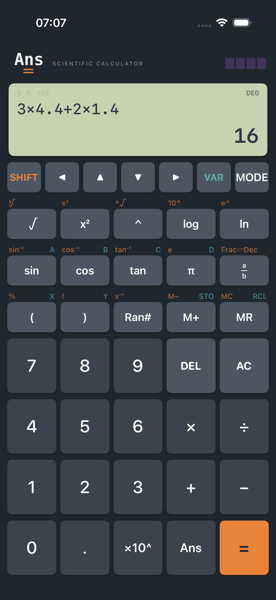
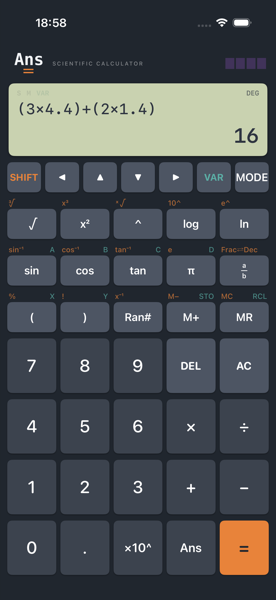
WebsiteUpdate

Changed region(s): [[0.058, 0.15, 0.4638, 0.21], [0.1159, 0.03, 0.2609, 0.06], [0.4928, 0.18, 0.5507, 0.21]]

diff --git a/examples/carbon-dating/index.html b/examples/carbon-dating/index.html
@@ -87,9 +87,10 @@ og_image_alt: Carbon dating worked example — halving, logarithms, and the age 
       the <b>ln</b> key does the whole job. With T½ = 5 days and N/N₀ = 0.1:
     </p>
 
-    <ul class="example-keys" aria-label="5, multiply, ln, 0 point 1, close bracket, divide, ln, 0 point 5, close bracket, equals">
+    <ul class="example-keys" aria-label="5, multiply, open bracket, ln, 0 point 1, close bracket, divide, ln, 0 point 5, close bracket, close bracket, equals">
       <li><kbd class="is-number">5</kbd></li>
       <li><kbd class="is-number">×</kbd></li>
+      <li><kbd>(</kbd></li>
       <li><kbd>ln</kbd></li>
       <li><kbd class="is-number">0.1</kbd></li>
       <li><kbd>)</kbd></li>
@@ -97,11 +98,12 @@ og_image_alt: Carbon dating worked example — halving, logarithms, and the age 
       <li><kbd>ln</kbd></li>
       <li><kbd class="is-number">0.5</kbd></li>
       <li><kbd>)</kbd></li>
+      <li><kbd>)</kbd></li>
       <li><kbd class="is-number">=</kbd></li>
     </ul>
 
-    <div class="example-readout" role="img" aria-label="The display reads 5 times ln 0.1 divided by ln 0.5, result 16.60964047">
-      <span>5×ln(0.1)÷ln(0.5)</span>
+    <div class="example-readout" role="img" aria-label="The display reads 5 times, open bracket, ln 0.1 divided by ln 0.5, close bracket, result 16.60964047">
+      <span>5×(ln(0.1)÷ln(0.5))</span>
       <strong>16.60964047</strong>
       <em>16 days and about 15 hours to fall to a tenth</em>
     </div>
@@ -131,8 +133,8 @@ og_image_alt: Carbon dating worked example — halving, logarithms, and the age 
       Our charcoal is at <b>22%</b> of modern carbon:
     </p>
 
-    <div class="example-readout" role="img" aria-label="The display reads 5730 times ln 0.22 divided by ln 0.5, result 12516.75279">
-      <span>5730×ln(0.22)÷ln(0.5)</span>
+    <div class="example-readout" role="img" aria-label="The display reads 5730 times, open bracket, ln 0.22 divided by ln 0.5, close bracket, result 12516.75279">
+      <span>5730×(ln(0.22)÷ln(0.5))</span>
       <strong>12516.75279</strong>
       <em>About 12,500 years — a late-glacial hearth</em>
     </div>

diff --git a/_layouts/default.html b/_layouts/default.html
@@ -23,14 +23,30 @@
 
     {% comment %}
       Safari's native, dismissible Smart App Banner. Keep this contextual:
-      it belongs on the Ans product journey, worked examples and science
-      tools. Keep it off general converters, utilities and policy/support
-      pages. Safari decides whether the visitor's platform displays it; the
-      banner is primarily an iPhone/iPad conversion aid.
+      the home page, the calculator's own page, and the worked examples,
+      which exist to show that calculator being used. Safari decides whether
+      the visitor's platform displays it; the banner is primarily an
+      iPhone/iPad conversion aid.
+
+      Two exclusions are deliberate and should not be re-added casually:
+
+      - The 36 science tools and the 138 converters are free, and each one
+        carries the "Free · No ads · No tracking · No account" promise in
+        its footer. A banner with an icon, a price and an install button is
+        what a visitor reads as an app ad, whatever we call it, and most of
+        that traffic arrives from a search and sees one page. Keeping the
+        promise intact is worth more than the conversions.
+
+      - The graph page. This tag can only carry one app id and it is the
+        calculator's, while that page is about Ans Graph and says on the
+        same screen that Graph is not on the App Store yet. A banner there
+        offers a different, purchasable app to someone who came to read
+        about this one. Add 'graph-page' back when Graph has its own id,
+        together with a site.graph_appstore_id to point it at.
 
       Do not add app-argument until the app has a verified deep-link route.
     {% endcomment %}
-    {% if page.url == '/' or page.body_class contains 'calculator-page' or page.body_class contains 'graph-page' or page.body_class contains 'examples-page' or page.body_class contains 'science-page' %}
+    {% if page.url == '/' or page.body_class contains 'calculator-page' or page.body_class contains 'examples-page' %}
     <meta name="apple-itunes-app" content="app-id={{ site.appstore_id }}">
     {% endif %}
 

diff --git a/examples/velocity-time-graph-area/index.html b/examples/velocity-time-graph-area/index.html
@@ -89,21 +89,25 @@ og_image_alt: Area under a speed–time graph — from a triangle you can do on 
       breaking it up is how the halving gets applied to the wrong term:
     </p>
 
-    <ul class="example-keys" aria-label="8, multiply, 3, plus, 0 point 5, multiply, 2, multiply, 8, equals">
+    <ul class="example-keys" aria-label="open bracket, 8, multiply, 3, close bracket, plus, open bracket, 0 point 5, multiply, 2, multiply, 8, close bracket, equals">
+      <li><kbd>(</kbd></li>
       <li><kbd class="is-number">8</kbd></li>
       <li><kbd class="is-number">×</kbd></li>
       <li><kbd class="is-number">3</kbd></li>
+      <li><kbd>)</kbd></li>
       <li><kbd class="is-number">+</kbd></li>
+      <li><kbd>(</kbd></li>
       <li><kbd class="is-number">0.5</kbd></li>
       <li><kbd class="is-number">×</kbd></li>
       <li><kbd class="is-number">2</kbd></li>
       <li><kbd class="is-number">×</kbd></li>
       <li><kbd class="is-number">8</kbd></li>
+      <li><kbd>)</kbd></li>
       <li><kbd class="is-number">=</kbd></li>
     </ul>
 
-    <div class="example-readout" role="img" aria-label="The calculator display reads 8 times 3 plus 0.5 times 2 times 8, result 32">
-      <span>8×3+0.5×2×8</span>
+    <div class="example-readout" role="img" aria-label="The calculator display reads open bracket 8 times 3 close bracket plus open bracket 0.5 times 2 times 8 close bracket, result 32">
+      <span>(8×3)+(0.5×2×8)</span>
       <strong>32</strong>
       <em>The distance travelled, in metres</em>
     </div>

diff --git a/examples/finding-an-angle/index.html b/examples/finding-an-angle/index.html
@@ -252,7 +252,7 @@ og_image_alt: Finding an angle — SOHCAHTOA, the inverse sine, and all the answ
     </p>
     <p>
       This triangle shows it happening. Having found C = 81.79°, the sine rule
-      gives the angle facing the 7 cm side as sin B = 7 sin C ÷ 8 = 0.8660254038,
+      gives the angle facing the 7 cm side as sin B = (7 × sin C) ÷ 8 = 0.8660254038,
       and sin⁻¹ of that is <strong>60°</strong> — but 180° − 60° = <b>120°</b>
       has the same sine, and nothing in the sine rule chooses between them. Only
       the angle sum does: 120° would leave −21.79° for the third corner, which no

diff --git a/examples/compound-interest/index.html b/examples/compound-interest/index.html
@@ -166,7 +166,7 @@ og_image_alt: Compound interest worked example — the formula, the keystrokes a
 
     <p>
       Doubling means (1.05)<sup>n</sup> = 2, and the tool for pulling an
-      exponent down is a logarithm: n = ln 2 ÷ ln 1.05.
+      exponent down is a logarithm: n = ln(2) ÷ ln(1.05).
     </p>
 
     <ul class="example-keys" aria-label="ln, 2, close bracket, divide, ln, 1 point 0 5, close bracket, equals">

diff --git a/examples/projectile-motion/index.html b/examples/projectile-motion/index.html
@@ -40,7 +40,7 @@ og_image_alt: Projectile motion worked example — the range formula, the trajec
     </p>
 
     <p>
-      Landing back at launch height takes t = 2u sin θ ÷ g, and multiplying by
+      Landing back at launch height takes t = (2u sin θ) ÷ g, and multiplying by
       the horizontal speed gives the range:
     </p>
 

diff --git a/render-preview.py b/render-preview.py
@@ -249,13 +249,14 @@ for src, dest, url in PAGES:
     doc = LAYOUT
 
     # Smart App Banner: the production layout intentionally limits this to
-    # product, worked-example and science pages. Resolve that page-aware
-    # Liquid here so the disposable preview exercises the same scope.
+    # the home page, the calculator page and the worked examples — see the
+    # comment there for why the science tools and the graph page are out.
+    # Resolve that page-aware Liquid here so the preview shows the same scope.
     smart_banner_pattern = re.compile(
         r"    {% comment %}\n"
         r"      Safari's native, dismissible Smart App Banner\..*?"
         r"    {% endcomment %}\n"
-        r"    {% if page\.url == '/' or page\.body_class contains 'calculator-page' or page\.body_class contains 'graph-page' or page\.body_class contains 'examples-page' or page\.body_class contains 'science-page' %}\n"
+        r"    {% if page\.url == '/' or page\.body_class contains 'calculator-page' or page\.body_class contains 'examples-page' %}\n"
         r"(    <meta name=\"apple-itunes-app\" content=\"app-id={{ site\.appstore_id }}\">)\n"
         r"    {% endif %}\n",
         re.S)
@@ -265,9 +266,7 @@ for src, dest, url in PAGES:
     show_smart_banner = (
         url == "/"
         or "calculator-page" in body_class
-        or "graph-page" in body_class
         or "examples-page" in body_class
-        or "science-page" in body_class
     )
     replacement = smart_banner_match.group(1) + "\n" if show_smart_banner else ""
     doc = smart_banner_pattern.sub(replacement, doc)

diff --git a/privacy.md b/privacy.md
@@ -8,7 +8,7 @@ permalink: /privacy
 
 # Privacy
 
-*Last updated: 20 August 2026*
+*Last updated: 21 August 2026*
 
 Ans and Ans Graph are built to be private. The short version: **the apps
 collect nothing, and this website uses only privacy-first, cookieless
@@ -24,8 +24,9 @@ personal data.** There are no ads or sponsored placements, advertising
 pixels, data brokers, or surveillance-style analytics; those are not welcome
 here. The count is anonymous and aggregate.
 
-On the home page, product pages, worked examples and science tools, Safari may
-show Apple's native Smart App Banner for Ans Calculator. This is our own
+On the home page, the Ans Calculator page and the worked examples, Safari may
+show Apple's native Smart App Banner for Ans Calculator. It is deliberately
+kept off the free science tools and unit converters. This is our own
 product link, not a paid placement or third-party advertisement. Safari may
 contact Apple to retrieve the App Store information it displays; Ans receives
 no personal data from that lookup.
